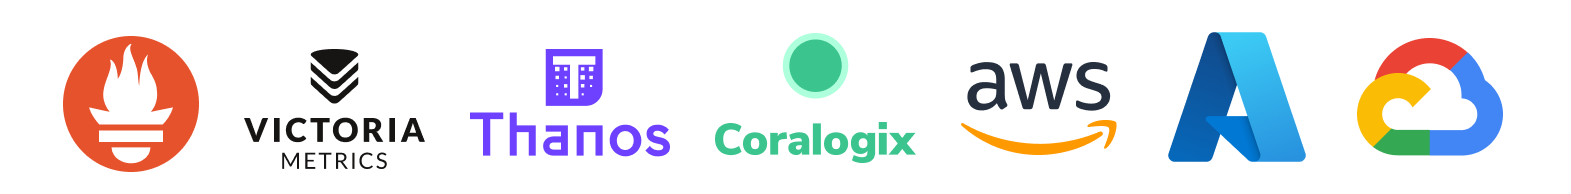
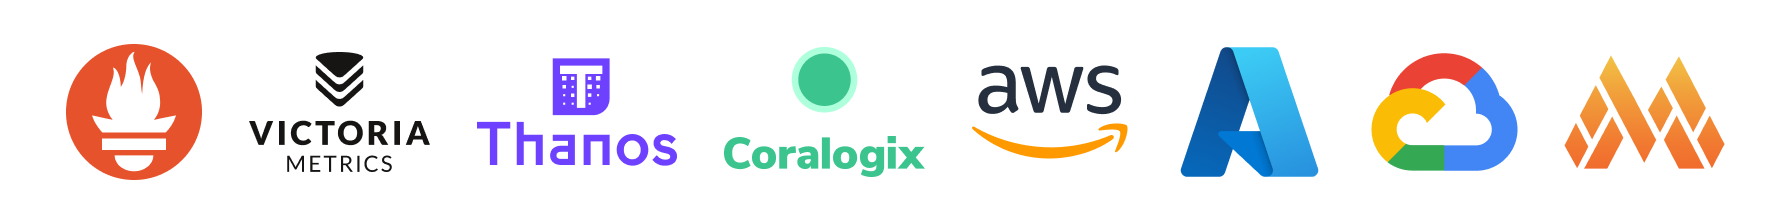
Added Grafana mimir and GMP docs

Changed region(s): [[0.0312, 0.1546, 0.9669, 0.8969], [0.2807, 0.2474, 0.4055, 0.5567]]

diff --git a/README.md b/README.md
@@ -67,7 +67,7 @@ Robusta KRR (Kubernetes Resource Recommender) is a CLI tool for optimizing resou
 [![Used to send data to KRR](./images/krr-datasources.svg)](#data-source-integrations)
 
 
-_View Instructions for: [Prometheus](#prometheus-victoria-metrics-and-thanos-auto-discovery), [Thanos](#prometheus-victoria-metrics-and-thanos-auto-discovery), [Victoria Metrics](#prometheus-victoria-metrics-and-thanos-auto-discovery), [Google Managed Prometheus](./docs/google-cloud-managed-service-for-prometheus.md), [Amazon Managed Prometheus](#amazon-managed-prometheus), [Azure Managed Prometheus](#azure-managed-prometheus), [Coralogix](#coralogix-managed-prometheus) and [Grafana Cloud](#grafana-cloud-managed-prometheus)_
+_View Instructions for: [Prometheus](#prometheus-victoria-metrics-and-thanos-auto-discovery), [Thanos](#prometheus-victoria-metrics-and-thanos-auto-discovery), [Victoria Metrics](#prometheus-victoria-metrics-and-thanos-auto-discovery), [Google Managed Prometheus](./docs/google-cloud-managed-service-for-prometheus.md), [Amazon Managed Prometheus](#amazon-managed-prometheus), [Azure Managed Prometheus](#azure-managed-prometheus), [Coralogix](#coralogix-managed-prometheus),[Grafana Cloud](#grafana-cloud-managed-prometheus) and [Grafana Mimir](#grafana-mimir-auto-discovery)_
 
 
 
@@ -196,6 +196,7 @@ Setup KRR for...
 - [Amazon Managed Prometheus](#amazon-managed-prometheus)
 - [Coralogix Managed Prometheus](#coralogix-managed-prometheus)
 - [Grafana Cloud Managed Prometheus](#grafana-cloud-managed-prometheus)
+- [Grafana Mimir](#grafana-mimir-auto-discovery)
 
 <p align="right">(<a href="#readme-top">back to top</a>)</p>
 
@@ -382,7 +383,6 @@ Find about how KRR tries to find the default Prometheus to connect <a href="#pro
 
 
 
-
 ## Data Source Integrations
 <details id="prometheus-victoria-metrics-and-thanos-auto-discovery"><summary> Prometheus, Victoria Metrics and Thanos auto-discovery</summary>
 
@@ -461,6 +461,14 @@ python krr.py simple --namespace default -p PROMETHEUS_URL --prometheus-auth-hea
 
 </details>
 
+<details id="google-managed-prometheus">
+<summary>Google Managed Prometheus (GMP)</summary>
+
+Please find the detailed GMP usage instructions [here](https://github.com/robusta-dev/krr/blob/main/docs/google-cloud-managed-service-for-prometheus.md)
+
+<p align="right">(<a href="#readme-top">back to top</a>)</p>
+
+</details>
 
 <details id="amazon-managed-prometheus">
 <summary>Amazon Managed Prometheus</summary>
@@ -517,7 +525,20 @@ python krr.py simple -p $PROM_URL --prometheus-auth-header "Bearer ${PROM_USER}:
 <p align="right">(<a href="#readme-top">back to top</a>)</p>
 
 </details>
-</p>
+
+<details id="grafana-mimir-auto-discovery">
+<summary> Grafana Mimir auto-discovery</summary>
+
+By default, KRR will try to auto-discover the running Grafana Mimir.
+
+For discovering Prometheus it scans services for those labels:
+```python
+  "app.kubernetes.io/name=mimir,app.kubernetes.io/component=query-frontend"
+```
+
+<p align="right">(<a href="#readme-top">back to top</a>)</p>
+
+</details>
 
 ## Integrations
 
